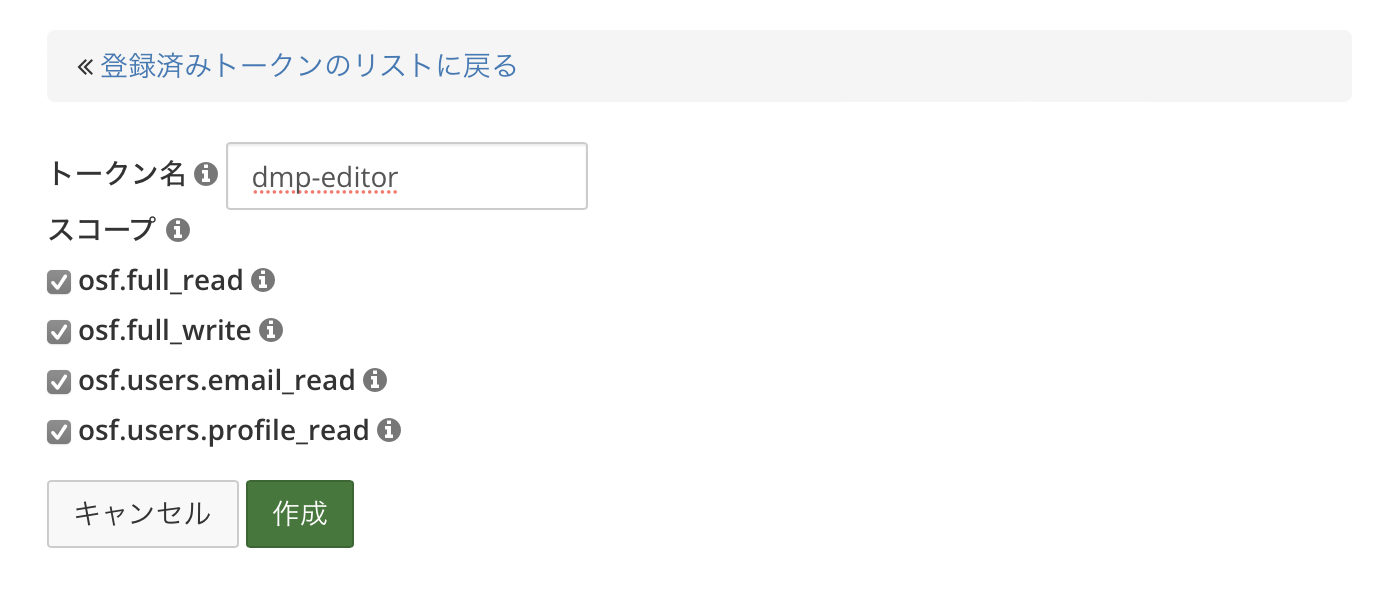
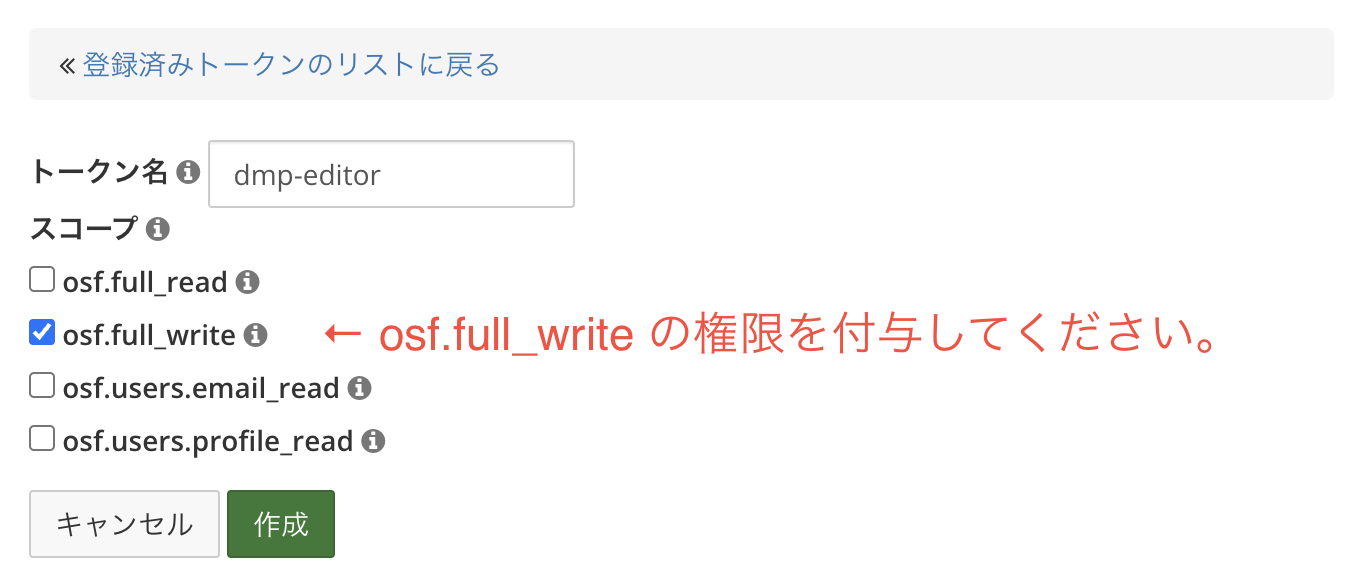
Update token permission handling

diff --git a/src/components/EditProject/FormCard.tsx b/src/components/EditProject/FormCard.tsx
@@ -1,5 +1,5 @@
 import { SaveOutlined } from "@mui/icons-material"
-import { Box, Typography, Button, Divider } from "@mui/material"
+import { Box, Typography, Button, Divider, Alert, Snackbar } from "@mui/material"
 import { SxProps } from "@mui/system"
 import { useEffect, useState } from "react"
 import { useErrorBoundary } from "react-error-boundary"
@@ -16,6 +16,7 @@ import { writeDmpFile, createProject, DMP_PROJECT_PREFIX, ProjectInfo } from "@/
 import { dmpAtom, formTouchedStateAtom, formValidState, initFormTouchedState, grdmProjectNameAtom } from "@/store/dmp"
 import { tokenAtom } from "@/store/token"
 import { User } from "@/store/user"
+import { getErrorChain } from "@/utils"
 
 export interface FormCardProps {
   sx?: SxProps
@@ -36,6 +37,8 @@ export default function FormCard({ sx, isNew, projectId, user, project }: FormCa
   const isFormValid = useRecoilValue(formValidState)
   const [submitTrigger, setSubmitTrigger] = useState(false)
   const [submitting, setSubmitting] = useState(false)
+  const [alertMessage, setAlertMessage] = useState<string | null>(null)
+  const snackbarOpen = alertMessage !== null
 
   const handleSave = () => {
     setTouched(initFormTouchedState(true))
@@ -55,7 +58,14 @@ export default function FormCard({ sx, isNew, projectId, user, project }: FormCa
               .then(() => navigate(`/projects/${project.id}`))
               .catch(showBoundary)
           })
-          .catch(showBoundary)
+          .catch((error) => {
+            const errorMessages = getErrorChain(error).map((err) => err.message)
+            if (errorMessages.some((msg) => msg.includes("HTTP Error: 403"))) {
+              setAlertMessage("GRDM Token に、プロジェクトを作成する権限 (\"osf.full_write\") が存在しないようです。ご確認よろしくお願いします。")
+            } else {
+              showBoundary(error)
+            }
+          })
           .finally(() => setSubmitting(false))
       } else {
         writeDmpFile(token, projectId, dmp)
@@ -100,6 +110,15 @@ export default function FormCard({ sx, isNew, projectId, user, project }: FormCa
           startIcon={<SaveOutlined />}
         />
       </Box>
+
+      <Snackbar
+        open={snackbarOpen}
+        onClose={() => setAlertMessage(null)}
+        anchorOrigin={{ vertical: "top", horizontal: "center" }}
+        autoHideDuration={10000}
+      >
+        <Alert onClose={() => setAlertMessage(null)} severity="error" sx={{ width: "100%" }} children={alertMessage} />
+      </Snackbar>
     </OurCard>
   )
 }

diff --git a/src/pages/ErrorPage.tsx b/src/pages/ErrorPage.tsx
@@ -2,6 +2,7 @@ import { Box, Typography, Paper, Button } from "@mui/material"
 
 import Frame from "@/components/Frame"
 import OurCard from "@/components/OurCard"
+import { getErrorChain } from "@/utils"
 
 interface ErrorPageProps {
   error: Error
@@ -9,6 +10,23 @@ interface ErrorPageProps {
 }
 
 export default function ErrorPage({ error, resetErrorBoundary }: ErrorPageProps) {
+  const errorChain = getErrorChain(error)
+  const errorMessage = errorChain.reduce((acc, err, idx) => {
+    if (idx === 0) return err.message
+    return `${acc}\n\nCaused by: ${err.message}`
+  }, "")
+  const errorStack = errorChain.reduce((acc, err, idx) => {
+    if (idx === 0) return err.stack || err.message
+    return `${acc}\n\nCaused by: ${err.stack || err.message}`
+  }, "")
+
+  const resetWithCacheClear = () => {
+    if (typeof window !== "undefined") {
+      localStorage.clear()
+      resetErrorBoundary()
+    }
+  }
+
   return (
     <Frame noAuth>
       <OurCard sx={{ mt: "1.5rem" }}>
@@ -29,7 +47,7 @@ export default function ErrorPage({ error, resetErrorBoundary }: ErrorPageProps)
             </Typography>
             <Paper variant="outlined" sx={{ mt: "0.5rem", p: "0.5rem 1rem" }}>
               <Box sx={{ fontFamily: "monospace", overflowX: "auto" }}>
-                <pre>{error.message}</pre>
+                <pre>{errorMessage}</pre>
               </Box>
             </Paper>
           </Box>
@@ -39,16 +57,23 @@ export default function ErrorPage({ error, resetErrorBoundary }: ErrorPageProps)
             </Typography>
             <Paper variant="outlined" sx={{ mt: "0.5rem", p: "0.5rem 1rem" }}>
               <Box sx={{ fontFamily: "monospace", overflowX: "auto" }}>
-                <pre>{error.stack}</pre>
+                <pre>{errorStack}</pre>
               </Box>
             </Paper>
           </Box>
-          <Box>
+          <Box sx={{ display: "flex", gap: "1.5rem" }}>
             <Button
               variant="contained"
               color="secondary"
               onClick={resetErrorBoundary}
               children={"再試行する"}
+            />
+            <Button
+              variant="contained"
+              color="secondary"
+              onClick={resetWithCacheClear}
+              children={"Cache をクリアして再試行する"}
+              sx={{ textTransform: "none" }}
             />
           </Box>
         </Box>

diff --git a/src/pages/EditProject.tsx b/src/pages/EditProject.tsx
@@ -8,8 +8,9 @@ import FormCard from "@/components/EditProject/FormCard"
 import Frame from "@/components/Frame"
 import Loading from "@/components/Loading"
 import NoAuthCard from "@/components/NoAuthCard"
+import { initDmp } from "@/dmp"
 import { FilesNode, ProjectInfo, getProjectInfo, readDmpFile } from "@/grdmClient"
-import { dmpAtom } from "@/store/dmp"
+import { dmpAtom, formTouchedStateAtom, grdmProjectNameAtom, initFormTouchedState } from "@/store/dmp"
 import { authSelector, tokenAtom } from "@/store/token"
 import { userSelector } from "@/store/user"
 
@@ -26,6 +27,8 @@ export default function EditProject({ isNew }: EditProjectProps) {
   const [project, setProject] = useState<ProjectInfo | undefined>(undefined)
   const [dmpFileNode, setDmpFileNode] = useState<FilesNode | undefined>(undefined)
   const setDmp = useSetRecoilState(dmpAtom)
+  const setGrdmProjectName = useSetRecoilState(grdmProjectNameAtom)
+  const setFormTouchedState = useSetRecoilState(formTouchedStateAtom)
 
   const isLogin = auth.state === "hasValue" && auth.contents
   const loadingData = user.state !== "hasValue" ||
@@ -40,11 +43,18 @@ export default function EditProject({ isNew }: EditProjectProps) {
           readDmpFile(token, projectId)
             .then(({ dmp, node }) => {
               setDmp(dmp)
+              setGrdmProjectName("")
+              setFormTouchedState(initFormTouchedState())
               setDmpFileNode(node)
             })
             .catch(showBoundary)
         })
         .catch(showBoundary)
+    }
+    if (isNew) {
+      setDmp(initDmp())
+      setGrdmProjectName("")
+      setFormTouchedState(initFormTouchedState())
     }
   }, []) // eslint-disable-line react-hooks/exhaustive-deps
 

diff --git a/src/grdmClient.ts b/src/grdmClient.ts
@@ -82,7 +82,7 @@ export interface GetMeResponse {
         department_ja: string
       }[]
       timezone: string
-      email: string
+      email?: string | null
     }
     links: {
       html: string
@@ -107,7 +107,7 @@ export const getMeResponseSchema = z.object({
         department_ja: z.string(),
       })),
       timezone: z.string(),
-      email: z.string(),
+      email: z.string().optional().nullable(),
     }),
     links: z.object({
       html: z.string(),

diff --git a/src/utils.ts b/src/utils.ts
@@ -1,0 +1,14 @@
+interface ErrorWithCause extends Error {
+  cause?: unknown
+}
+
+export const getErrorChain = (error: unknown): ErrorWithCause[] => {
+  const errors: ErrorWithCause[] = []
+  let currentError: unknown = error
+  while (currentError && typeof currentError === "object" && "message" in currentError) {
+    errors.push(currentError as ErrorWithCause)
+    currentError = (currentError as ErrorWithCause).cause
+  }
+
+  return errors
+}

diff --git a/src/store/user.ts b/src/store/user.ts
@@ -12,7 +12,7 @@ export interface User {
   researcherId: string | null
   affiliation: string | null
   timezone: string
-  email: string
+  email?: string | null
   grdmProfileUrl: string
   profileImage: string
 }
